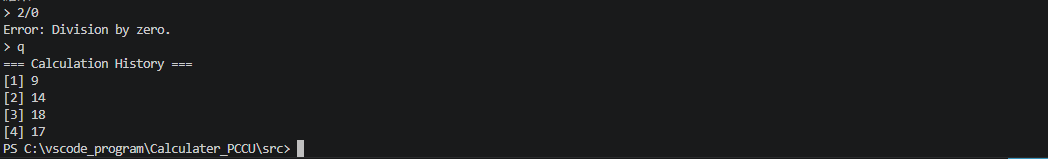
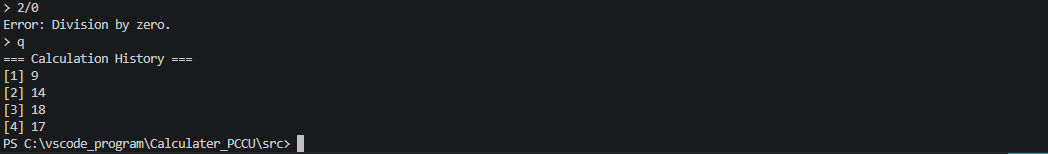
Update

diff --git a/README.md b/README.md
@@ -82,13 +82,7 @@ g++ -std=c++11 -o calculator.exe main.cpp Calculator.cpp Result.cpp InputParser.
 **Windows**
 
 ```bat
-calculator.exe
-```
-
-**macOS / Linux**
-
-```bash
-./calculator
+./calculator.exe
 ```
 
 執行後畫面如下：
@@ -115,5 +109,5 @@ calculator.exe
 
 | 組員 | 開發內容 | 貢獻比例 |
 |------|----------|----------|
-| 張定翔 | 程式設計、進度追蹤與最終整合、專案文件（README）撰寫、PPT | 50% |
+| 張定翔 | 程式設計、進度追蹤與最終整合、github撰寫、PPT | 50% |
 | 陳柏融 | 核心運算邏輯實作，類別設計與函式開發 | 50% |
